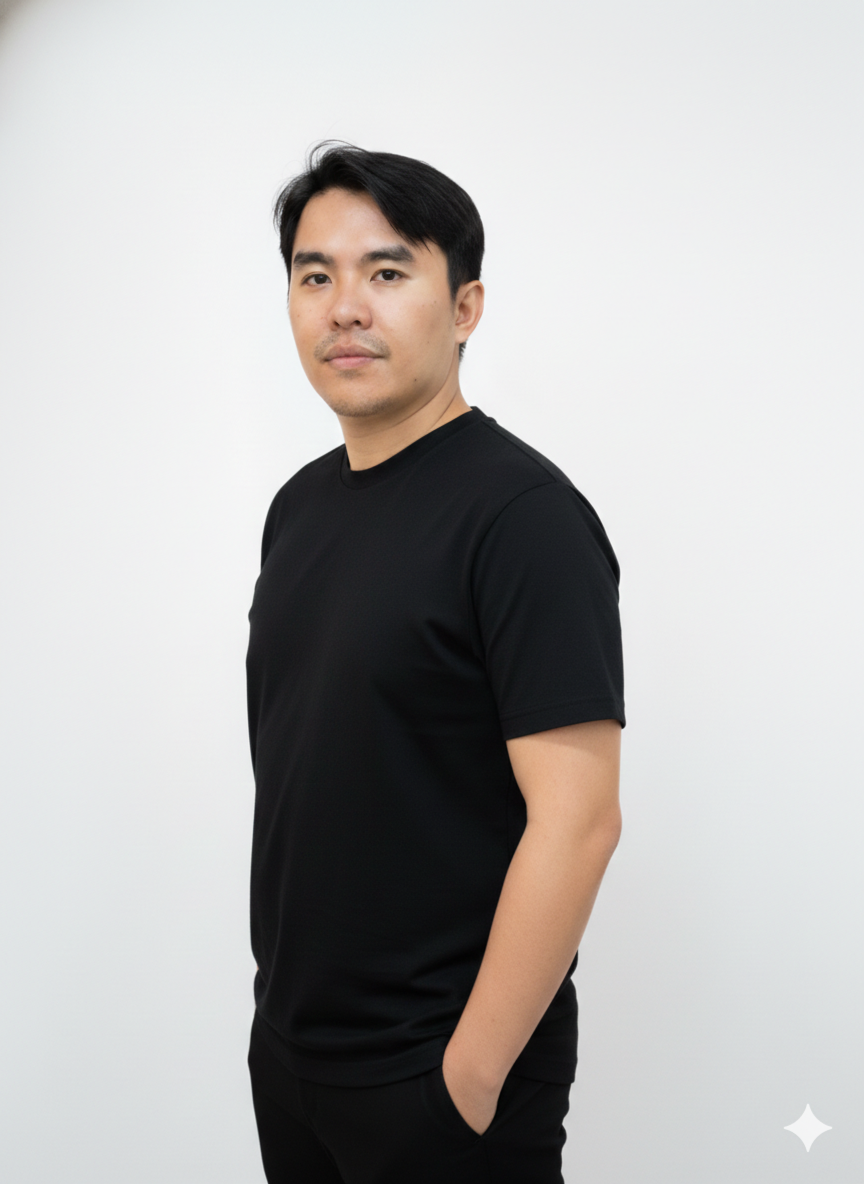
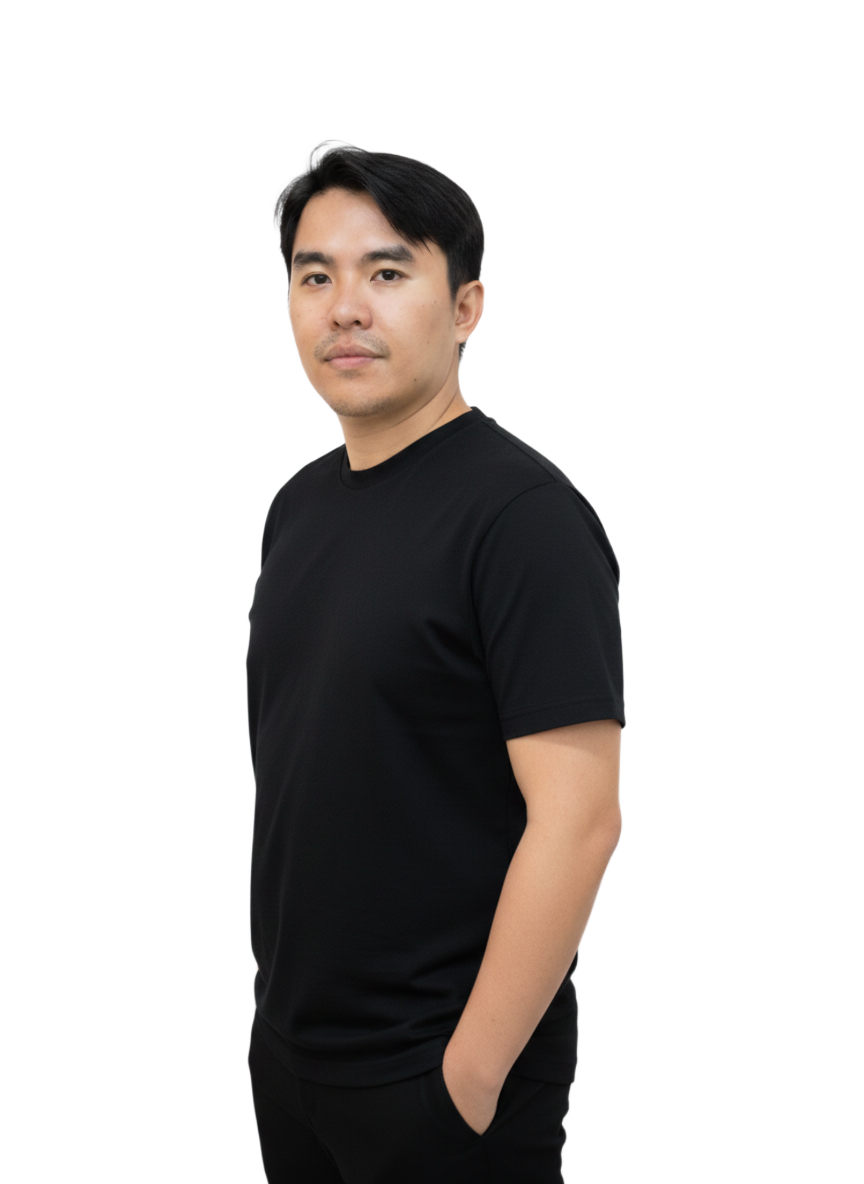
feat(hero): floating portrait with glow, update photo

diff --git a/components/sections/hero.tsx b/components/sections/hero.tsx
@@ -4,7 +4,7 @@ import Image from "next/image"
 import { ArrowRight, Download } from "lucide-react"
 import { profile } from "@/lib/portfolio"
 import CountUp from "@/components/reactbits/count-up"
-import SpotlightCard from "@/components/SpotlightCard"
+
 import Aurora from "@/components/Aurora"
 
 function statNumber(value: string): number {
@@ -100,24 +100,20 @@ export function Hero() {
           </div>
         </div>
 
-        {/* Portrait — 40%, deliberately secondary */}
+        {/* Portrait — 40%, floating with glow */}
         <div className="relative lg:col-span-5" data-animate>
-          {/* gradient glow border — green bottom-left, purple top-right */}
-          <div className="pointer-events-none absolute -inset-px -z-10 rounded-[2.25rem] bg-linear-to-br from-emerald-400 via-transparent to-purple-500 opacity-60 blur-[2px]" />
-          <div className="pointer-events-none absolute -inset-8 -z-20 rounded-[3rem] bg-linear-to-br from-emerald-500/20 via-transparent to-purple-500/20 blur-3xl" />
-          <SpotlightCard
-            spotlightColor="rgba(168, 85, 247, 0.45)"
-            className="relative aspect-4/5 w-full overflow-hidden rounded-[2rem] border border-border/60 bg-linear-to-br from-card via-muted/40 to-card p-0 shadow-[0_24px_60px_-24px_rgba(0,0,0,0.6)]"
-          >
-            <Image
-              src="/me.png"
-              alt={profile.name}
-              fill
-              sizes="(max-width: 1024px) 100vw, 40vw"
-              className="object-cover object-top"
-              priority
-            />
-          </SpotlightCard>
+          {/* soft glow behind portrait */}
+          <div className="pointer-events-none absolute inset-0 -z-10 scale-90 blur-3xl opacity-40 bg-linear-to-br from-emerald-400 via-blue-500 to-purple-500 rounded-full" />
+          <div className="pointer-events-none absolute -inset-6 -z-20 blur-[80px] opacity-25 bg-linear-to-tr from-emerald-500 to-purple-500 rounded-full" />
+          <Image
+            src="/me.png"
+            alt={profile.name}
+            width={800}
+            height={1000}
+            sizes="(max-width: 1024px) 100vw, 40vw"
+            className="relative w-full h-auto drop-shadow-[0_8px_32px_rgba(16,185,129,0.25)]"
+            priority
+          />
         </div>
       </div>
     </section>
